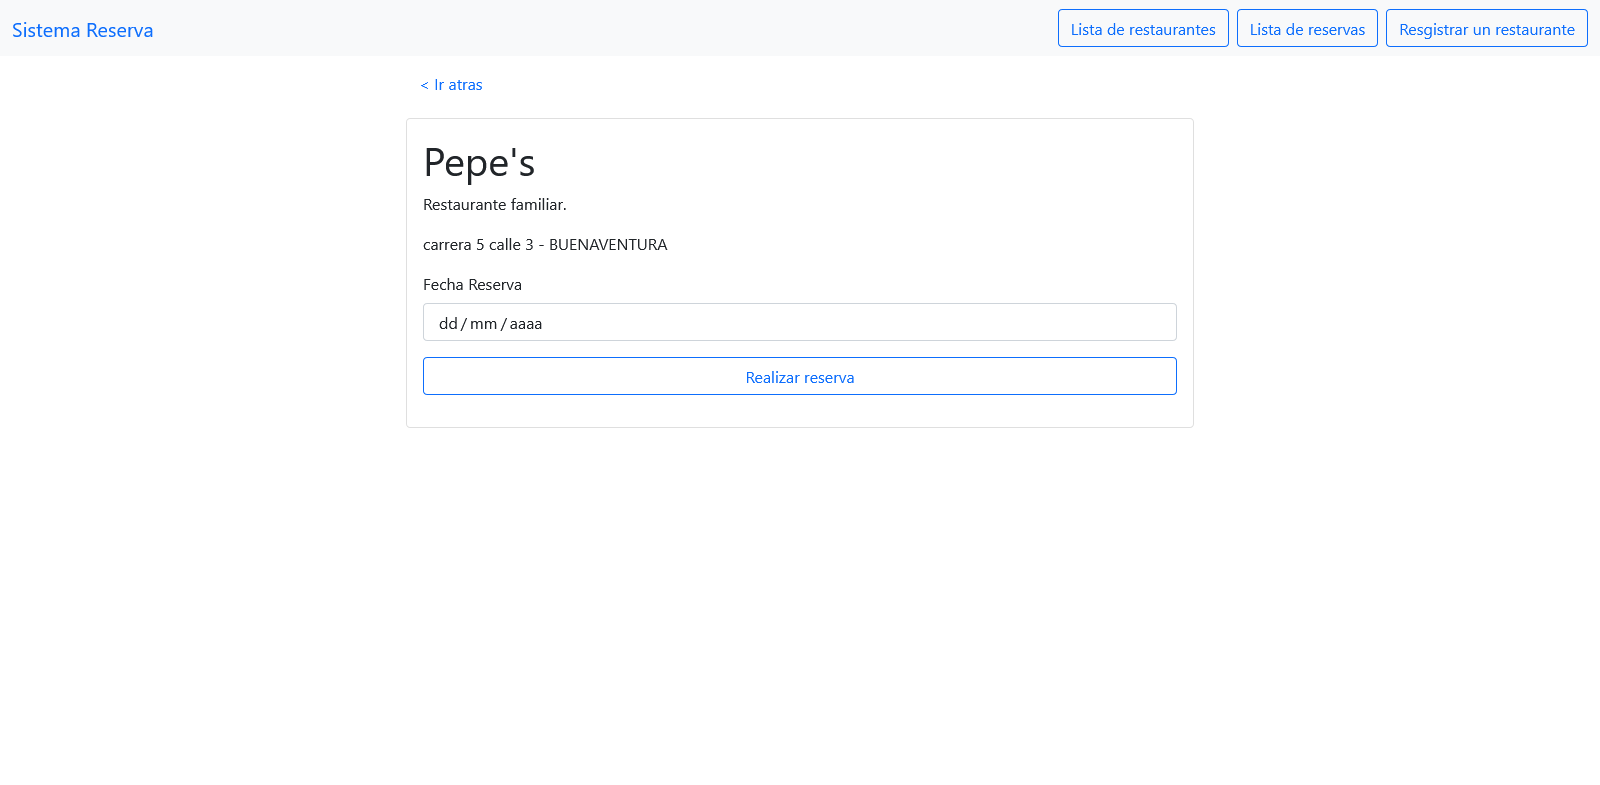
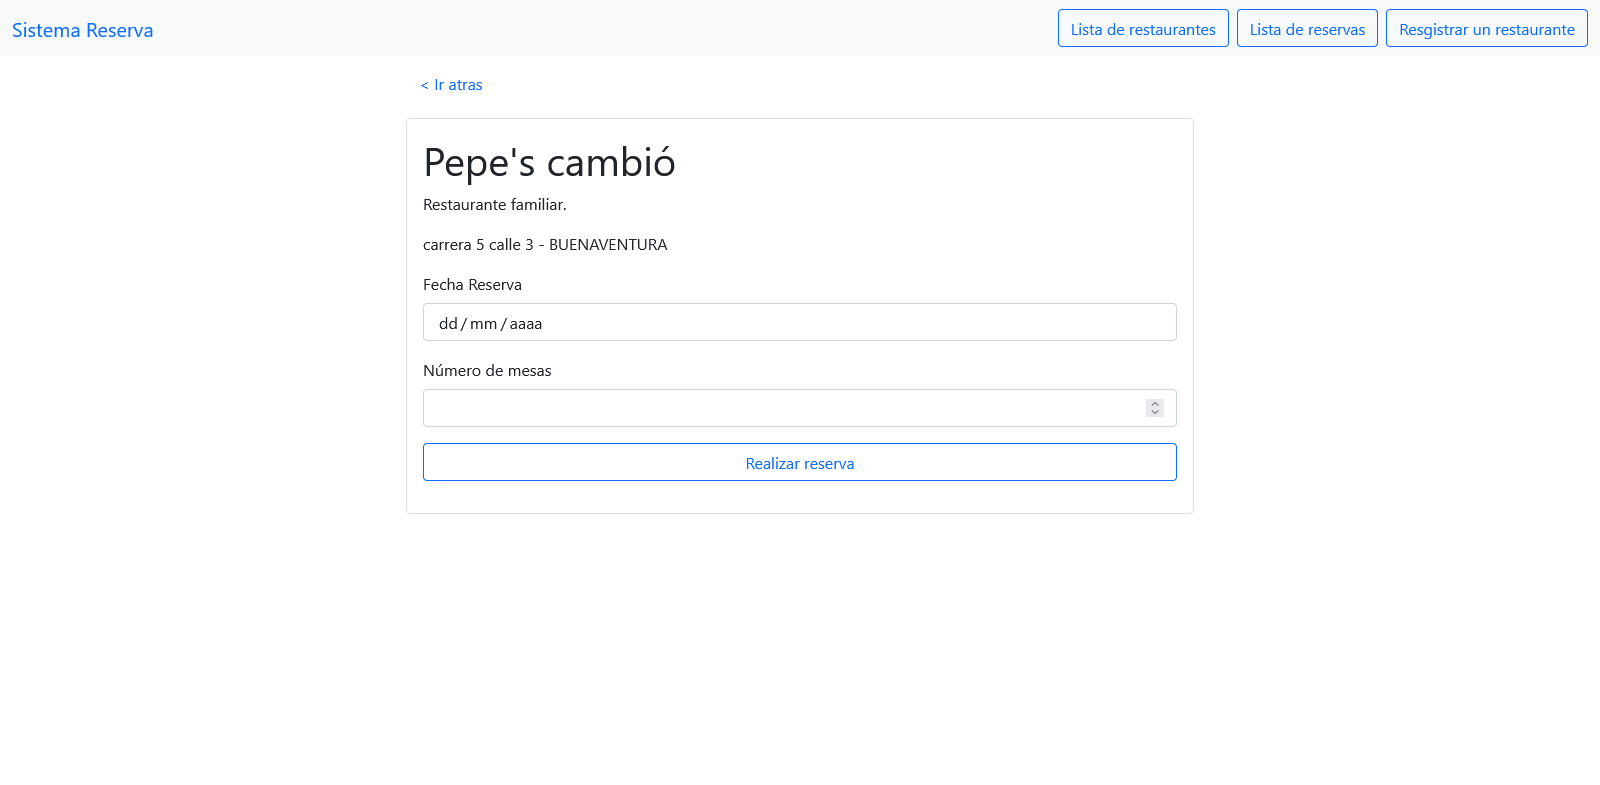
cambios en la carpeta prueba

diff --git a/README.md b/README.md
@@ -34,6 +34,8 @@ La aplicación corre en el puerto 4000 inicia el servidor con **npm run dev**
     <br/>
     <img src="./prueba/crearReserva.png" >
     <br/>
+    <img src="./prueba/reservasNumeroMesasExcedida.png" >
+    <br/>
     <img src="./prueba/listaReservas.png" >
     <br/>
 </div>
